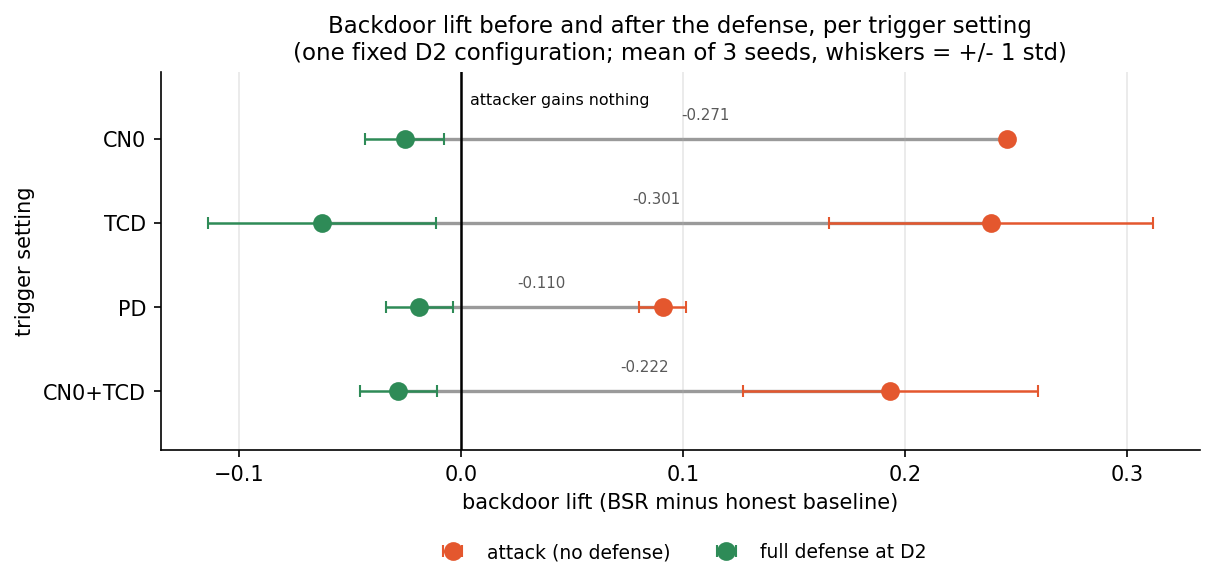
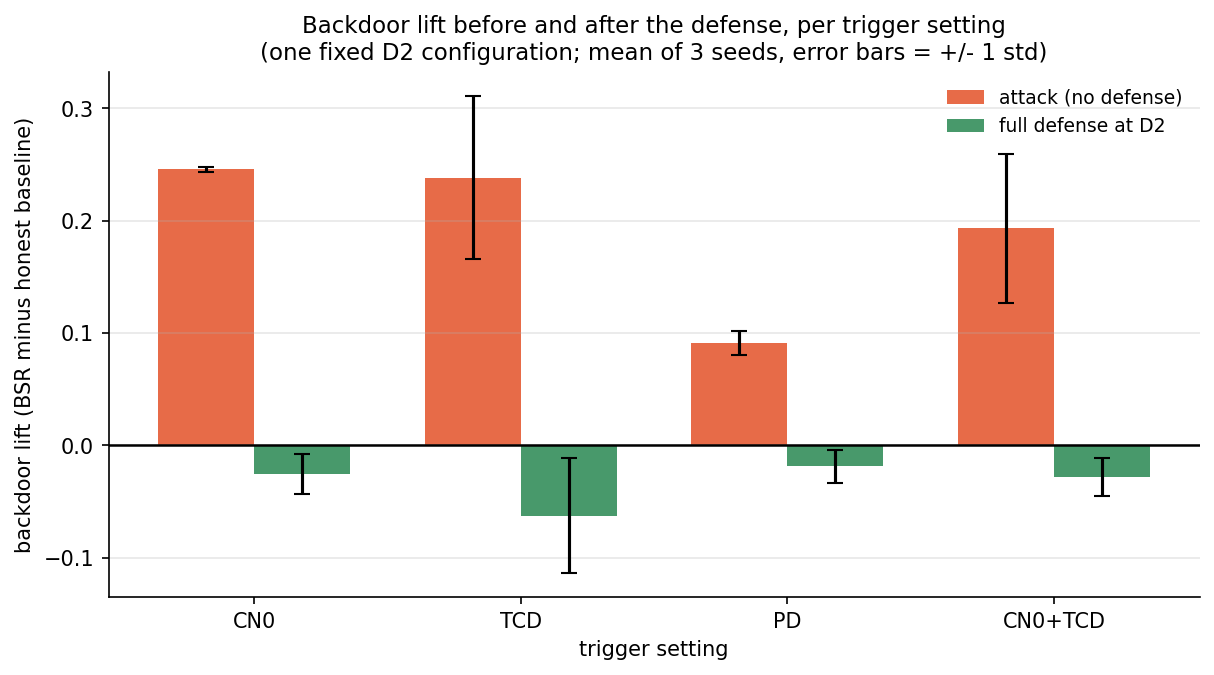
week11: restore the bar figure Task 3 asks for, keep the line version for the paper
Task 3 of the week 11 assignment says verbatim "Use bars with mean +/-
standard deviation if possible." The advisor has separately said he is
not fond of bar graphs and prefers line graphs, and the previous commit
acted on that general preference by replacing this chart. That was right
for the paper and wrong for the graded deliverable, which asks for bars
explicitly.

The notebook now emits both from the same arrays, so they cannot
disagree:

  fig_trigger_comparison.png           grouped bars  -> week 11 report
  fig_trigger_comparison_dumbbell.png  paired lines  -> the IEEE paper

Captions and both READMEs updated to say which is which and why.

Also verified week 11 against the assignment item by item: all 22 named
parameter-table entries present, all six required ablation rows plus the
optional seventh, all four reported metrics as mean +/- std, four trigger
settings with all five reported columns, an insight paragraph under each
table and figure, and a what-remains-incomplete section. Every expected
insight is checked against the data rather than asserted.

diff --git a/weeks/week11-paper-tables/build_week11_report_pdf.py b/weeks/week11-paper-tables/build_week11_report_pdf.py
@@ -162,10 +162,10 @@ cap('Table 3. Trigger generalization at fixed D2, mean +/- std over seeds 42, 7,
     'measured on each setting\'s own triggered test set against the same per-seed honest model. Honest FP rate is '
     'the fraction of honest client-rounds with trust below half of uniform.')
 img(RES/'fig_trigger_comparison.png', maxw=150)
-cap('Figure 1. Backdoor lift before (orange) and after (green) the defense, per trigger setting. Each connector '
-    'spans one trigger\'s undefended and defended lift, so its length is the backdoor the defense removes; markers '
-    'are means over three seeds and whiskers are +/- 1 std. The black line at zero marks "the attacker gains '
-    'nothing."')
+cap('Figure 1. Backdoor lift before (orange) and after (green) the defense, per trigger setting; bars are means '
+    'over three seeds with +/- 1 std error bars, as Task 3 requests. The black line at zero marks "the attacker '
+    'gains nothing." The notebook also emits a line-based version of the same data '
+    '(fig_trigger_comparison_dumbbell.png), which is the version used in the paper.')
 h2('Insight')
 bullet('The attack carries a viable backdoor in every setting (+0.09 to +0.25 lift), so each row is a real test.')
 bullet('The defense drives lift below zero in every setting: CN0 -0.0253, TCD -0.0626, PD -0.0188, mixed -0.0282. '

diff --git a/weeks/week11-paper-tables/README.md b/weeks/week11-paper-tables/README.md
@@ -16,6 +16,8 @@
 
 Each table and figure has its insight paragraph directly beneath it, as the assignment asks.
 
+**A note on the Task 3 figure.** Task 3 asks for bars with mean +/- standard deviation, while the advisor has separately said he prefers line graphs over bar graphs. Those pull in opposite directions, so the notebook emits both from the same arrays: the bar version is used in this report, because that is what Task 3 asks for, and the line-based version is used in the paper. They plot identical numbers.
+
 The **code** deliverable, submitted separately, is **`11_paper_tables.ipynb`** plus **`adaptive_attacker.py`**. Every number and figure in the report is produced by one of these two files; nothing is transcribed by hand.
 
 ## How to reproduce
@@ -41,10 +43,11 @@ Run `adaptive_attacker.py` before executing the notebook, because the notebook's
 | `results/parameter_table.csv` | Task 1: the reproducibility card |
 | `results/ablation_table.csv` | Task 2: the three-seed defense-layer ablation |
 | `results/trigger_comparison.csv` | Task 3: trigger-generalization table (CN0, TCD, PD, mixed CN0+TCD) |
-| `results/fig_trigger_comparison.png` | Task 3: bar figure, lift before and after the defense per trigger |
+| `results/fig_trigger_comparison.png` | Task 3: bar figure, lift before and after the defense per trigger (the version in this report, as Task 3 requests bars) |
+| `results/fig_trigger_comparison_dumbbell.png` | Same data as a line-based paired chart; this is the version used in the paper |
 | `adaptive_attacker.py` | Task 3b: defense-aware adaptive attacker (evasion sweep) |
 | `results/adaptive_attacker.csv` | Task 3b: adaptive attacker table (lift and trust vs evasion strength) |
-| `results/fig_adaptive_attacker.png` | Task 3b: line figure, defended lift and attacker trust vs evasion strength |
+| `results/fig_adaptive_attacker.png` | Task 3b: line figure, undefended and defended lift plus attacker trust vs evasion strength |
 
 ## What this week did
 
